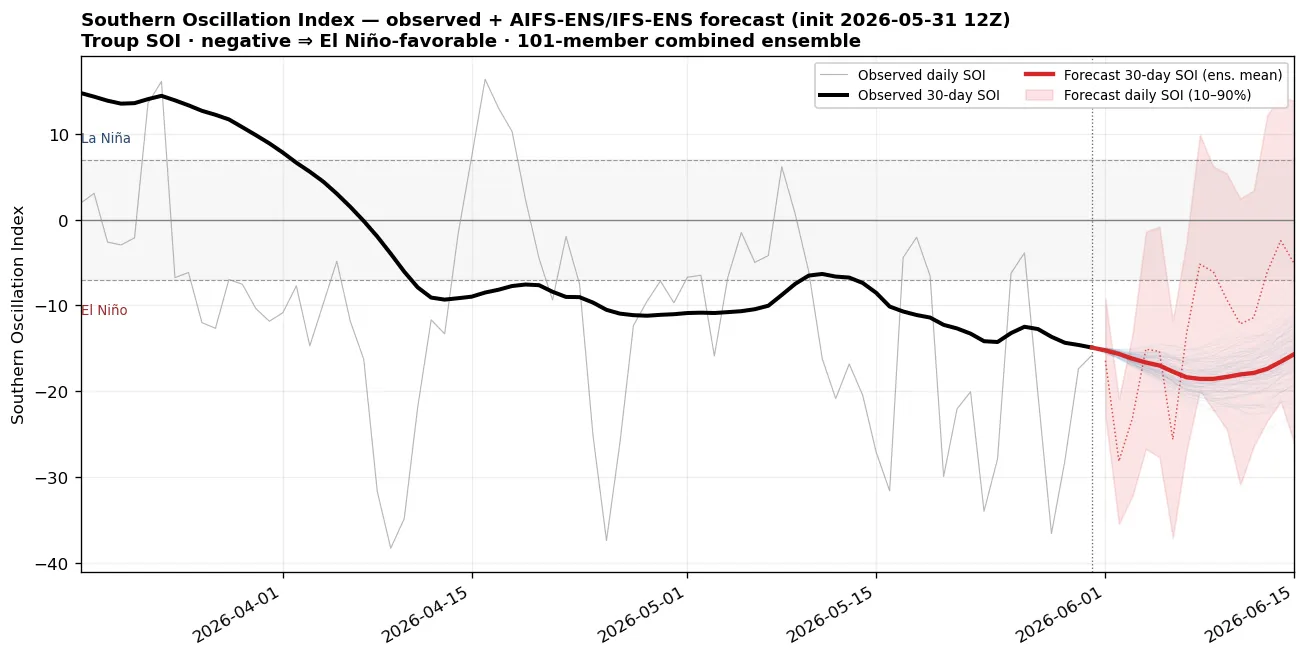
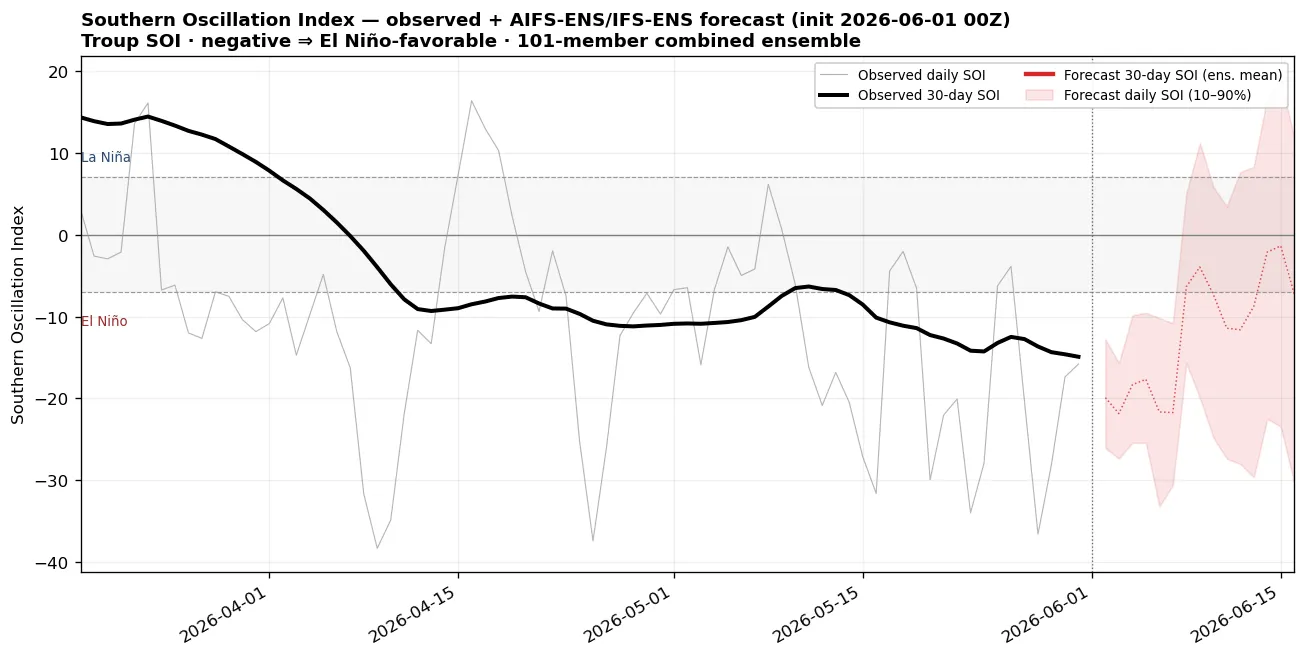
MJO RMM: 20260601_00z (local)

diff --git a/mjo.html b/mjo.html
@@ -71,14 +71,15 @@
   Wheeler &amp; Hendon (2004). Wind-only projection (U850/U200); amplitude is the
   radial distance (rings at 1, 2, 3). Observed track is recent ERA5/AIFS analysis.</p>
   <figure class="hero">
-  <img src="assets/mjo/rmm_20260531_12z.png?v=2026053112" alt="AIFS-ENS RMM 2026-05-31 12Z" loading="eager">
-  <figcaption>Latest init: <strong>2026-05-31 12Z</strong></figcaption>
+  <img src="assets/mjo/rmm_20260601_00z.png?v=2026060100" alt="AIFS-ENS RMM 2026-06-01 00Z" loading="eager">
+  <figcaption>Latest init: <strong>2026-06-01 00Z</strong></figcaption>
 </figure>
     <h2>Recent runs</h2>
   <div class="grid">
-    <a class="thumb" href="assets/mjo/rmm_20260530_12z.png?v=2026053112"><img src="assets/mjo/rmm_20260530_12z.png?v=2026053112" loading="lazy" alt="RMM 2026-05-30 12Z"><span>2026-05-30 12Z</span></a>
+    <a class="thumb" href="assets/mjo/rmm_20260531_12z.png?v=2026060100"><img src="assets/mjo/rmm_20260531_12z.png?v=2026060100" loading="lazy" alt="RMM 2026-05-31 12Z"><span>2026-05-31 12Z</span></a>
+    <a class="thumb" href="assets/mjo/rmm_20260530_12z.png?v=2026060100"><img src="assets/mjo/rmm_20260530_12z.png?v=2026060100" loading="lazy" alt="RMM 2026-05-30 12Z"><span>2026-05-30 12Z</span></a>
   </div>
-  <p class="meta">Updated 2026-05-31 20:25Z · Auto-generated from the AIFS-ENS open-data
+  <p class="meta">Updated 2026-06-01 18:04Z · Auto-generated from the AIFS-ENS open-data
   feed. Methodology: NOAA CPC / Wheeler &amp; Hendon (2004), EOFs from NOAA OLR +
   NCEP wind with the 120-day low-frequency filter removed.</p>
 </main>
